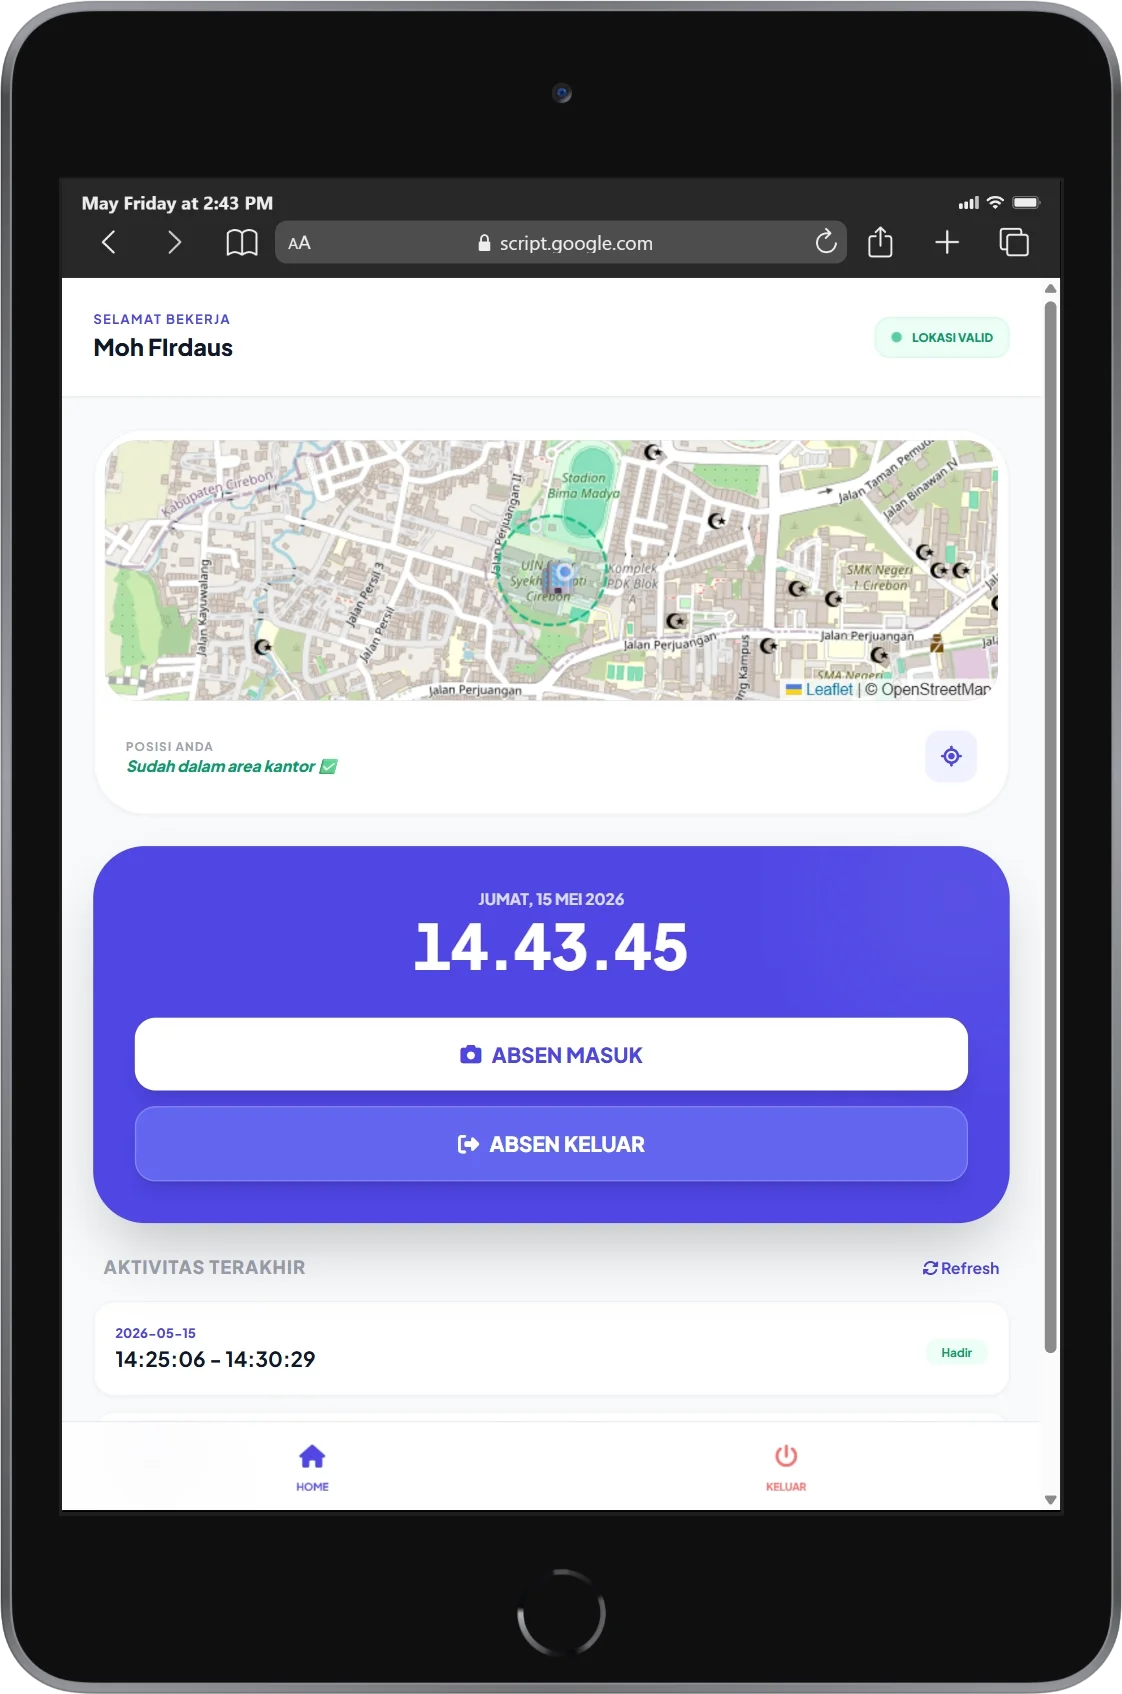
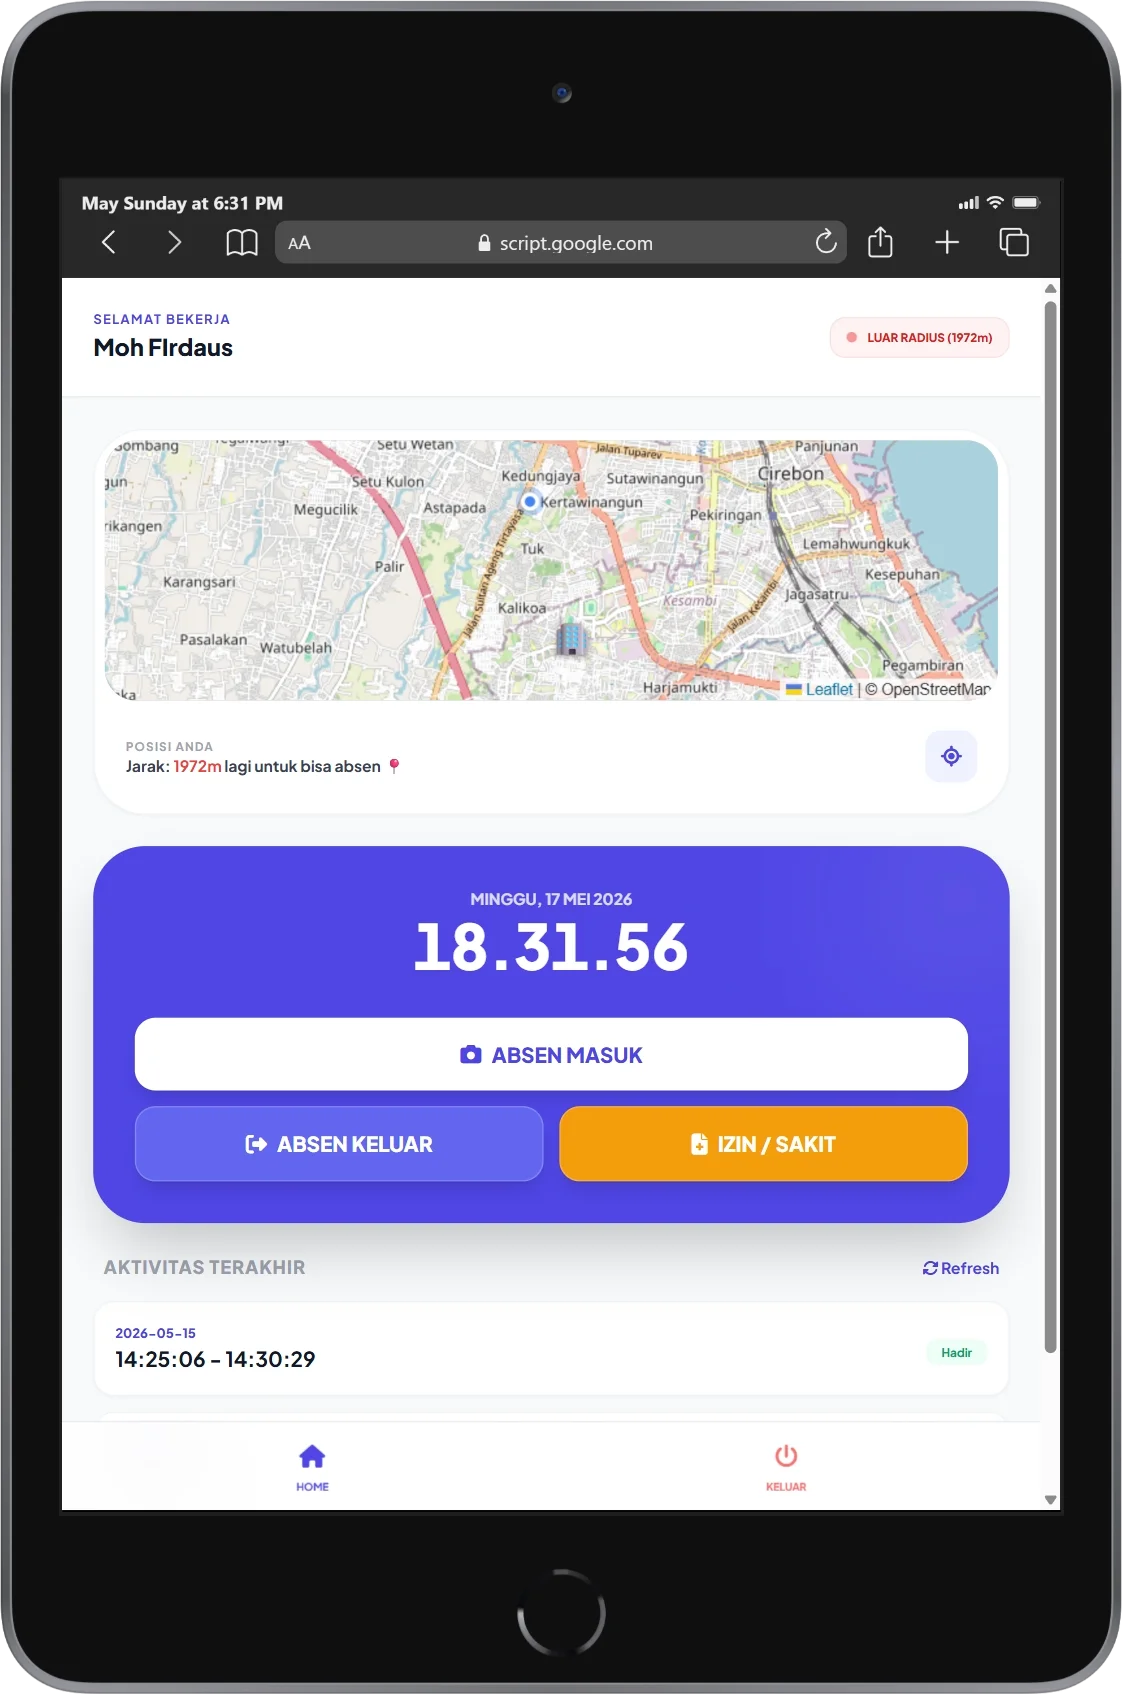
Apps Absensi Pegawai Ver.1

diff --git a/README.md b/README.md
@@ -13,7 +13,6 @@ Presensi Pro v3 adalah sistem absensi modern yang dirancang menggunakan Google A
   <img src="assets/Menu%20Log%20Absensi.webp" width="30%" alt="Log Absensi">
 </div>
 
----
 
 ## 🌟 Fitur Utama
 - **🌍 Validasi Geolokasi (Geofencing)**: Menolak absen jika posisi pegawai berada di luar radius kantor yang telah ditentukan.
@@ -28,11 +27,10 @@ Presensi Pro v3 adalah sistem absensi modern yang dirancang menggunakan Google A
 
 ## 🛠️ Tech Stack
 * **Frontend**: HTML5, Vanilla JavaScript, Tailwind CSS (via CDN), FontAwesome, Leaflet.js
-* **Backend**: Google Apps Script (Node.js environment)
+* **Backend**: Google Apps Script
 * **Database**: Google Sheets
 * **Storage**: Google Drive (untuk penyimpanan foto selfie)
 
----
 
 ## 🚀 Panduan Instalasi (Deployment)
 
@@ -118,5 +116,4 @@ Ikuti langkah-langkah di bawah ini untuk menginstal dan menggunakan aplikasi ini
 * **Lokasi terus-menerus Invalid**: Pastikan GPS di HP dalam mode *High Accuracy*. Jika masih bermasalah, di luar ruangan biasanya sinyal GPS lebih akurat daripada di dalam gedung.
 * **Gagal menyimpan foto**: Pastikan ID Folder Google Drive di `Code.gs` sudah benar dan folder tersebut tidak penuh (kuota Drive masih tersedia).
 
----
-*Dibuat khusus untuk Sistem Informasi Manajemen Kepegawaian (Presensi Pro v3)*
+